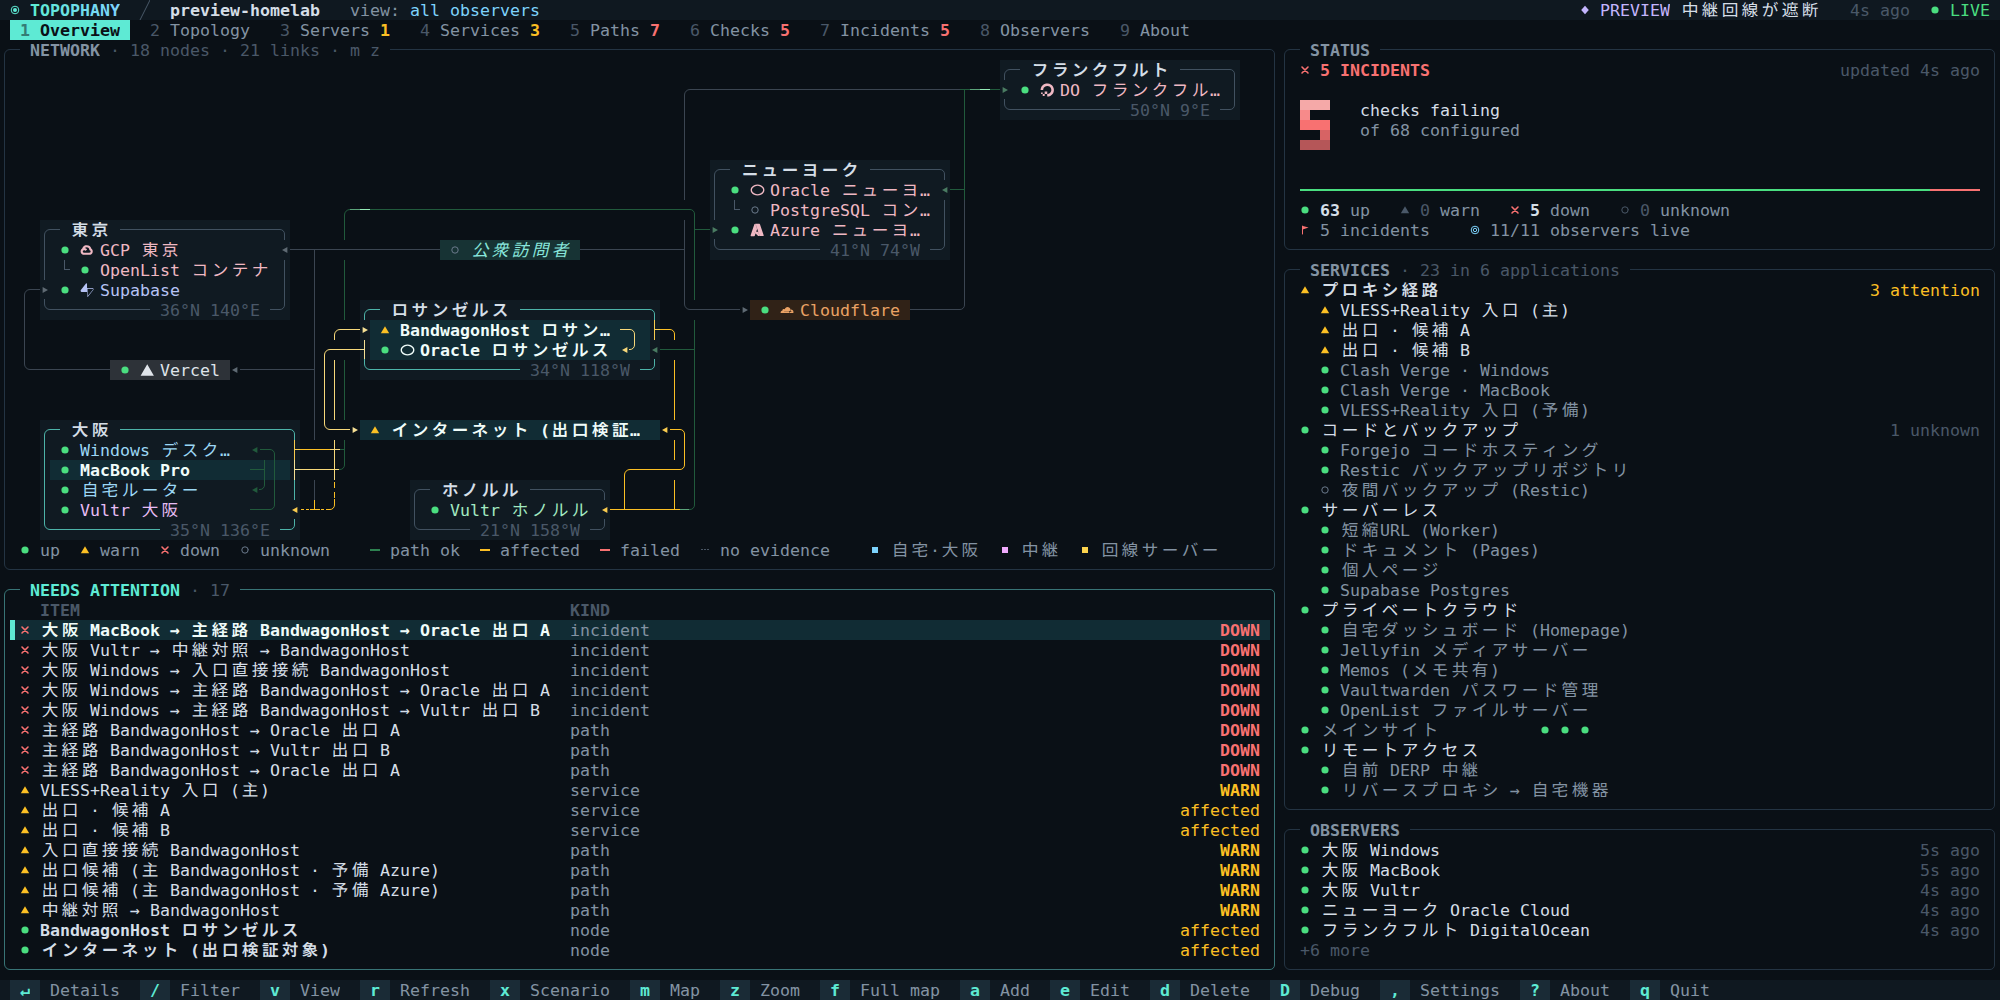
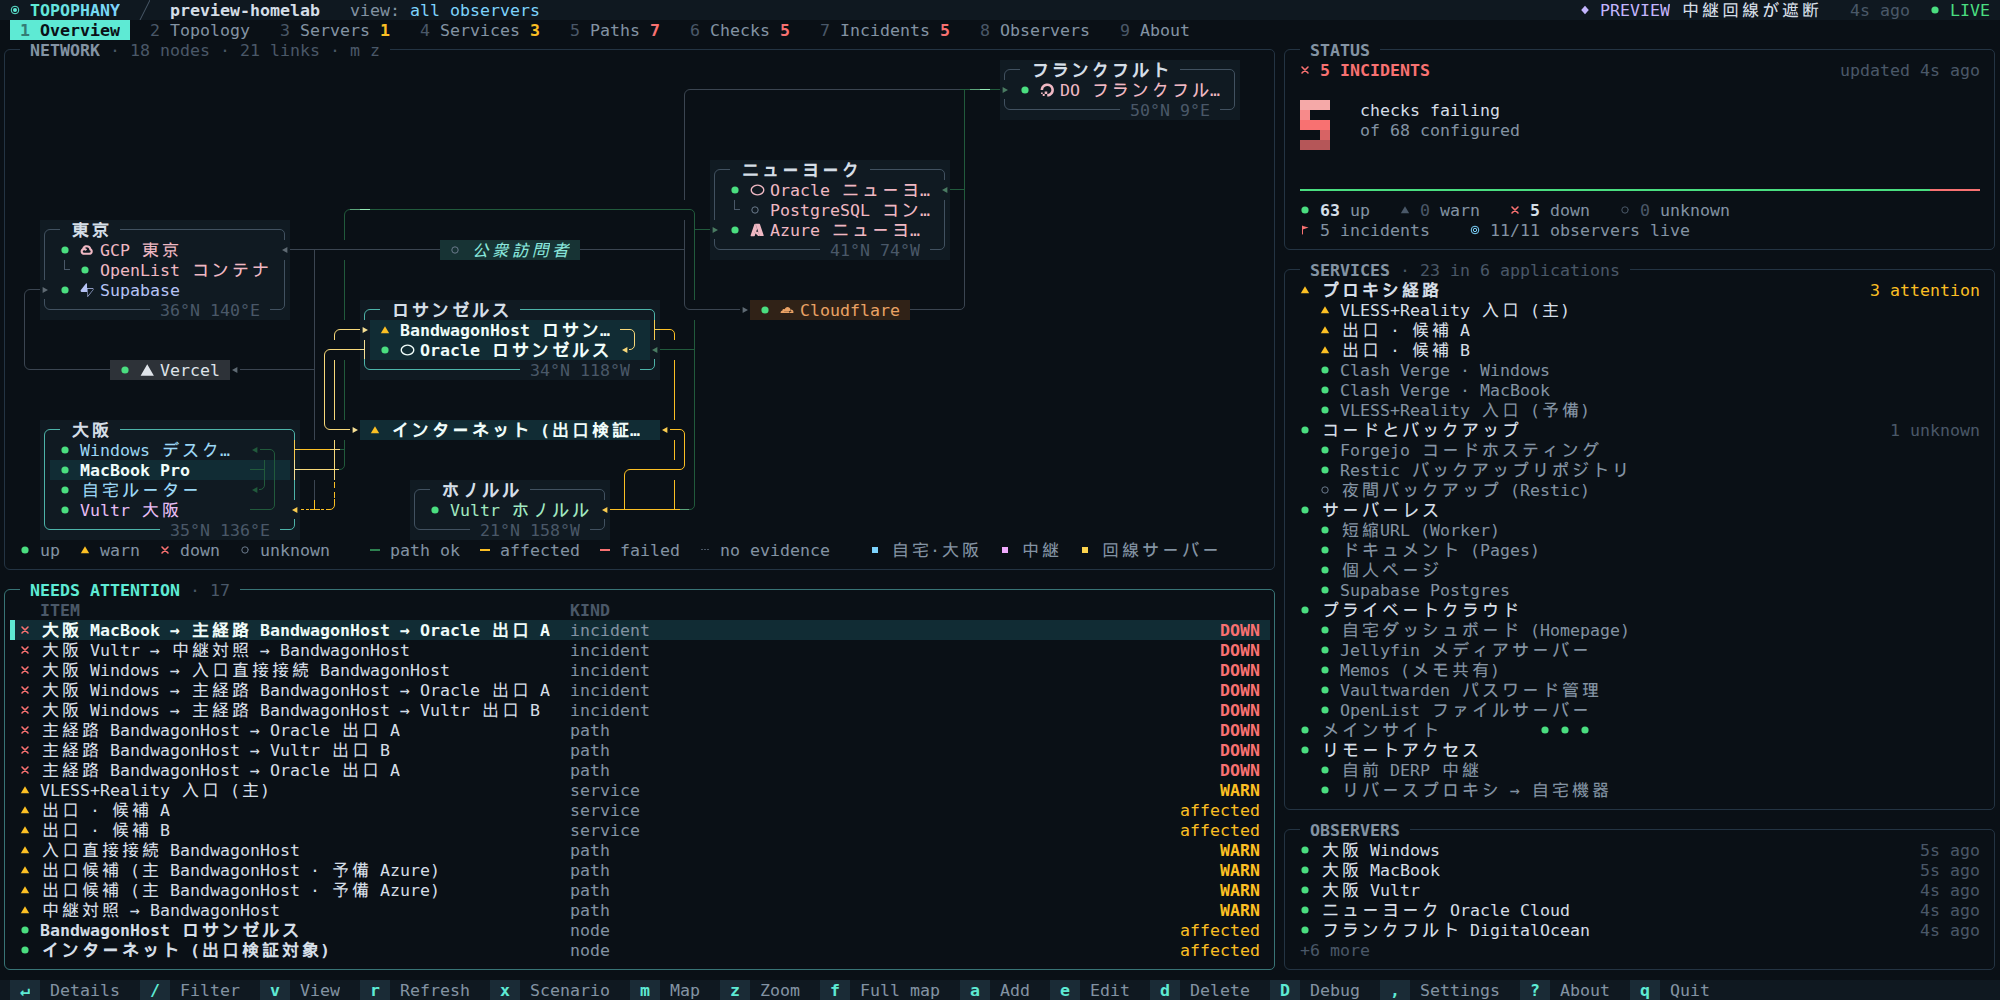
fix: explain software policy and unmeasured path evidence

diff --git a/site/public/ja/app/index.html b/site/public/ja/app/index.html
@@ -25,7 +25,7 @@
 <body class="live-page">
 <main class="live-main">
   <section id="live-demo" class="live-demo" aria-label="Topophany 対話型ターミナル" aria-busy="true"
-    data-mode="live" data-language="ja" data-wasm="/data/viewer.wasm?v=c1322bba5261" data-worker="/js/collector-worker.1dfc868a750f.js">
+    data-mode="live" data-language="ja" data-wasm="/data/viewer.wasm?v=4c5bfcdc36e8" data-worker="/js/collector-worker.1dfc868a750f.js">
     <div class="live-bar">
       <a class="live-home" href="/ja/" aria-label="Topophany ホーム"><img src="/favicon.svg" alt="" width="18" height="18">topophany</a>
       <span class="live-title" aria-hidden="true">topo</span>

diff --git a/site/public/app/index.html b/site/public/app/index.html
@@ -25,7 +25,7 @@
 <body class="live-page">
 <main class="live-main">
   <section id="live-demo" class="live-demo" aria-label="Interactive Topophany terminal" aria-busy="true"
-    data-mode="live" data-language="en" data-wasm="/data/viewer.wasm?v=c1322bba5261" data-worker="/js/collector-worker.1dfc868a750f.js">
+    data-mode="live" data-language="en" data-wasm="/data/viewer.wasm?v=4c5bfcdc36e8" data-worker="/js/collector-worker.1dfc868a750f.js">
     <div class="live-bar">
       <a class="live-home" href="/" aria-label="Topophany home"><img src="/favicon.svg" alt="" width="18" height="18">topophany</a>
       <span class="live-title" aria-hidden="true">topo</span>

diff --git a/site/public/zh/app/index.html b/site/public/zh/app/index.html
@@ -25,7 +25,7 @@
 <body class="live-page">
 <main class="live-main">
   <section id="live-demo" class="live-demo" aria-label="Topophany 交互终端" aria-busy="true"
-    data-mode="live" data-language="zh" data-wasm="/data/viewer.wasm?v=c1322bba5261" data-worker="/js/collector-worker.1dfc868a750f.js">
+    data-mode="live" data-language="zh" data-wasm="/data/viewer.wasm?v=4c5bfcdc36e8" data-worker="/js/collector-worker.1dfc868a750f.js">
     <div class="live-bar">
       <a class="live-home" href="/zh/" aria-label="Topophany 首页"><img src="/favicon.svg" alt="" width="18" height="18">topophany</a>
       <span class="live-title" aria-hidden="true">topo</span>

diff --git a/site/public/ja/demo/index.html b/site/public/ja/demo/index.html
@@ -25,7 +25,7 @@
 <body class="live-page">
 <main class="live-main">
   <section id="live-demo" class="live-demo" aria-label="Topophany 対話型ターミナル" aria-busy="true"
-    data-language="ja" data-wasm="/data/demo.wasm?v=1ab35e591736" data-worker="/js/demo-worker.9011dcf08272.js">
+    data-language="ja" data-wasm="/data/demo.wasm?v=e0d651240e4e" data-worker="/js/demo-worker.9011dcf08272.js">
     <div class="live-bar">
       <a class="live-home" href="/ja/" aria-label="Topophany ホーム"><img src="/favicon.svg" alt="" width="18" height="18">topophany</a>
       <span class="live-title" aria-hidden="true">topo preview</span>

diff --git a/site/public/demo/index.html b/site/public/demo/index.html
@@ -25,7 +25,7 @@
 <body class="live-page">
 <main class="live-main">
   <section id="live-demo" class="live-demo" aria-label="Interactive Topophany terminal" aria-busy="true"
-    data-language="en" data-wasm="/data/demo.wasm?v=1ab35e591736" data-worker="/js/demo-worker.9011dcf08272.js">
+    data-language="en" data-wasm="/data/demo.wasm?v=e0d651240e4e" data-worker="/js/demo-worker.9011dcf08272.js">
     <div class="live-bar">
       <a class="live-home" href="/" aria-label="Topophany home"><img src="/favicon.svg" alt="" width="18" height="18">topophany</a>
       <span class="live-title" aria-hidden="true">topo preview</span>

diff --git a/site/public/zh/demo/index.html b/site/public/zh/demo/index.html
@@ -25,7 +25,7 @@
 <body class="live-page">
 <main class="live-main">
   <section id="live-demo" class="live-demo" aria-label="Topophany 交互终端" aria-busy="true"
-    data-language="zh" data-wasm="/data/demo.wasm?v=1ab35e591736" data-worker="/js/demo-worker.9011dcf08272.js">
+    data-language="zh" data-wasm="/data/demo.wasm?v=e0d651240e4e" data-worker="/js/demo-worker.9011dcf08272.js">
     <div class="live-bar">
       <a class="live-home" href="/zh/" aria-label="Topophany 首页"><img src="/favicon.svg" alt="" width="18" height="18">topophany</a>
       <span class="live-title" aria-hidden="true">topo preview</span>

diff --git a/internal/engine/engine.go b/internal/engine/engine.go
@@ -258,7 +258,7 @@ func (p *Plan) Build(instance, view string, rows []model.Observation, carries []
 			return s
 		}
 		path := pathDefs[id]
-		s := Aggregate(id, pathEvidenceStates(group(p.pathChecks[id])), "no endpoint-to-endpoint check; segment health unknown")
+		s := aggregatePath(id, group(p.pathChecks[id]), "no endpoint-to-endpoint check; segment health unknown")
 		if len(path.Candidates) > 0 {
 			up, down, unknown := 0, 0, 0
 			for _, q := range path.Candidates {
@@ -305,7 +305,7 @@ func (p *Plan) Build(instance, view string, rows []model.Observation, carries []
 		}
 	}
 	for _, l := range c.Links {
-		s := Aggregate(l.ID, pathEvidenceStates(group(p.linkChecks[l.ID])), "segment not independently measured")
+		s := aggregatePath(l.ID, group(p.linkChecks[l.ID]), "segment not independently measured")
 		for _, id := range p.linkPaths[l.ID] {
 			if relevant(model.Check{Observer: p.paths[id].Observer}) && evalPath(id).Health == "down" {
 				s.Affected = true
@@ -523,6 +523,24 @@ func Aggregate(id string, states []model.CheckState, empty string) model.EntityS
 
 // Runtime selection/handshake metadata and a TUN-visible TCP accept are not
 // enough to mark an end-to-end access path healthy.
+func aggregatePath(id string, states []model.CheckState, empty string) model.EntityState {
+	s := Aggregate(id, pathEvidenceStates(states), empty)
+	active, reported := 0, 0
+	for _, check := range states {
+		if check.Freshness == "paused" || check.Freshness == "maintenance" {
+			continue
+		}
+		active++
+		if check.Freshness == "fresh" && check.Last != nil && check.Last.Evidence == "reported" {
+			reported++
+		}
+	}
+	if active > 0 && active == reported && s.Health == "unknown" {
+		s.Reason = "runtime reports only; inspect software policy checks; end-to-end reachability is unmeasured"
+	}
+	return s
+}
+
 func pathEvidenceStates(states []model.CheckState) []model.CheckState {
 	out := make([]model.CheckState, len(states))
 	copy(out, states)

diff --git a/internal/view/adapters.go b/internal/view/adapters.go
@@ -1,0 +1,27 @@
+package view
+
+import "github.com/WhitenWhiten/topophany/internal/model"
+
+// Software telemetry and a policy assertion answer different questions from an
+// application response. Keep those answers visible without upgrading evidence.
+func adapterDetails(check model.Check, state model.CheckState) []string {
+	if check.Kind != "mihomo" && check.Kind != "tailscale" && check.Kind != "wireguard" {
+		return nil
+	}
+	runtime, policy := "unverified", "not configured"
+	configured := check.Kind == "mihomo" && (check.Adapter.ExpectedMode != "" || len(check.Adapter.ExpectedProviders) > 0 || check.Adapter.ProviderReference != nil)
+	if configured {
+		policy = "unverified"
+	}
+	if last := state.Last; last != nil && state.Freshness == "fresh" {
+		if last.Evidence == "reported" && (last.Stage == "adapter" || last.Facts["mode"] != "" || last.Facts["backend_state"] != "" || last.Facts["rx_bytes"] != "") {
+			runtime = "available"
+		}
+		if last.Outcome == "policy" {
+			policy = "violated"
+		} else if configured && last.Outcome == "ok" {
+			policy = "matched"
+		}
+	}
+	return []string{"Runtime read: " + runtime, "Policy check: " + policy, "Business reachability: unmeasured; use a separate application probe"}
+}

diff --git a/internal/view/adapters_test.go b/internal/view/adapters_test.go
@@ -1,0 +1,29 @@
+package view
+
+import (
+	"strings"
+	"testing"
+
+	"github.com/WhitenWhiten/topophany/internal/model"
+)
+
+func TestAdapterStatusFacetsPreserveEvidenceLimits(t *testing.T) {
+	check := model.Check{Kind: "mihomo", Adapter: model.AdapterOptions{ExpectedMode: "rule"}}
+	for _, tc := range []struct{ outcome, fresh, runtime, policy string }{
+		{"ok", "fresh", "available", "matched"},
+		{"policy", "fresh", "available", "violated"},
+		{"error", "fresh", "available", "unverified"},
+		{"ok", "stale", "unverified", "unverified"},
+	} {
+		state := model.CheckState{Freshness: tc.fresh, Last: &model.Observation{Evidence: "reported", Outcome: tc.outcome, Stage: "adapter", Facts: map[string]string{"mode": "rule"}}}
+		text := strings.Join(adapterDetails(check, state), "\n")
+		for _, want := range []string{"Runtime read: " + tc.runtime, "Policy check: " + tc.policy, "Business reachability: unmeasured"} {
+			if !strings.Contains(text, want) {
+				t.Fatal(want, text)
+			}
+		}
+	}
+	if adapterDetails(model.Check{Kind: "http"}, model.CheckState{}) != nil {
+		t.Fatal("application probes relabeled as software telemetry")
+	}
+}

diff --git a/internal/engine/adapter_evidence_test.go b/internal/engine/adapter_evidence_test.go
@@ -1,0 +1,26 @@
+package engine
+
+import (
+	"strings"
+	"testing"
+
+	"github.com/WhitenWhiten/topophany/internal/model"
+)
+
+func TestReportedOnlyPathExplainsUnmeasuredReachability(t *testing.T) {
+	for _, outcome := range []string{"ok", "policy", "unknown"} {
+		state := model.CheckState{ID: "runtime", Health: "up", Freshness: "fresh", Last: &model.Observation{Evidence: "reported", Outcome: outcome}}
+		path := aggregatePath("path", []model.CheckState{state}, "empty")
+		if path.Health != "unknown" || !strings.Contains(path.Reason, "runtime reports only") {
+			t.Fatal(path)
+		}
+		state.Freshness = "stale"
+		if strings.Contains(aggregatePath("path", []model.CheckState{state}, "empty").Reason, "runtime reports only") {
+			t.Fatal("stale telemetry presented as current")
+		}
+	}
+	measured := model.CheckState{ID: "https", Health: "down", Freshness: "fresh", Last: &model.Observation{Evidence: "measured", Outcome: "fail"}}
+	if state := aggregatePath("path", []model.CheckState{measured}, "empty"); state.Health != "down" {
+		t.Fatal(state)
+	}
+}

diff --git a/internal/view/rows.go b/internal/view/rows.go
@@ -338,6 +338,7 @@ func (v View) Rows(tab int) []Row {
 			meta := d.Observer + " · " + d.Kind + " · " + e.Freshness
 			took := ""
 			details := []string{"Check: " + e.ID, "Source: " + e.Observer, "Health: " + e.Health, "Freshness: " + e.Freshness, "Evidence: " + e.Evidence, "Contract: " + e.Contract[:min(12, len(e.Contract))], "", e.Reason, ""}
+			details = append(details, adapterDetails(d, e)...)
 			if fared := AvailabilityDetails(e.Availability); fared != nil {
 				details = append(append(details, fared...), "")
 			}

diff --git a/docs/SCENARIOS.md b/docs/SCENARIOS.md
@@ -50,6 +50,7 @@ This document lists the finite, verifiable scenario contracts for version 1.1.1,
 | Rotating provider publications update desired membership without changing the configured contract; loaded names/order are still checked and publication changes do not invent drift | `TestMihomoDynamicProviderRotation`, `TestMihomoReferenceStillDetectsMembershipAndOrderDrift`, `TestMihomoReferenceChangingDuringSamplingIsUnknown` |
 | Reference credentials, TLS, freshness, redirects, deadlines and response budgets cannot bypass adapter safety or leak secrets | `TestMihomoReferenceFailuresAreMonitorErrors`, `TestMihomoReferenceCannotPublishSecrets`, `TestMihomoReferenceRejectsRedirectAndHonorsDeadline`, `TestMihomoReferenceHasIndependentTLSAndResolveSettings`, `TestMihomoProviderReferenceValidation`, `TestMihomoReferenceCannotUseProxiedPlaintextLoopback`, `TestMihomoReferenceContractCloneAndRedaction`, `TestMihomoReferenceFitsObservationBudget`, `TestMihomoPublicReferenceReceivesNoControllerToken` |
 | Splitting software adapters preserves serialized observations, error classification, evidence semantics and existing measurement contracts | `TestAdapterCompatibility` |
+| Software telemetry exposes runtime, policy and business-reachability facets; reported-only paths explain missing end-to-end evidence without becoming healthy | `TestAdapterStatusFacetsPreserveEvidenceLimits`, `TestReportedOnlyPathExplainsUnmeasuredReachability` |
 | Scheduling is partitioned by observer, skipping paused/maintenance checks; enforces bounded concurrency, target non-overlap, and cancellation | `TestOnceScopeIdentityAndExclusions`, `TestSchedulerConcurrencyTargetExclusionAndCancellation`, `TestCancellationAndInvalidScheduler` |
 | Under sustained overload every check takes its turn, the longest overdue first, and none waits longer than a round of all of them | `TestEveryCheckTakesItsTurnUnderSustainedLoad` |
 | Storage write failures abort cleanly without emitting false acknowledgments; retries never drop uncommitted records | `TestSinkFailureStopsWithoutLosingError`, `TestStorageFailureIsNotAcknowledged` |
